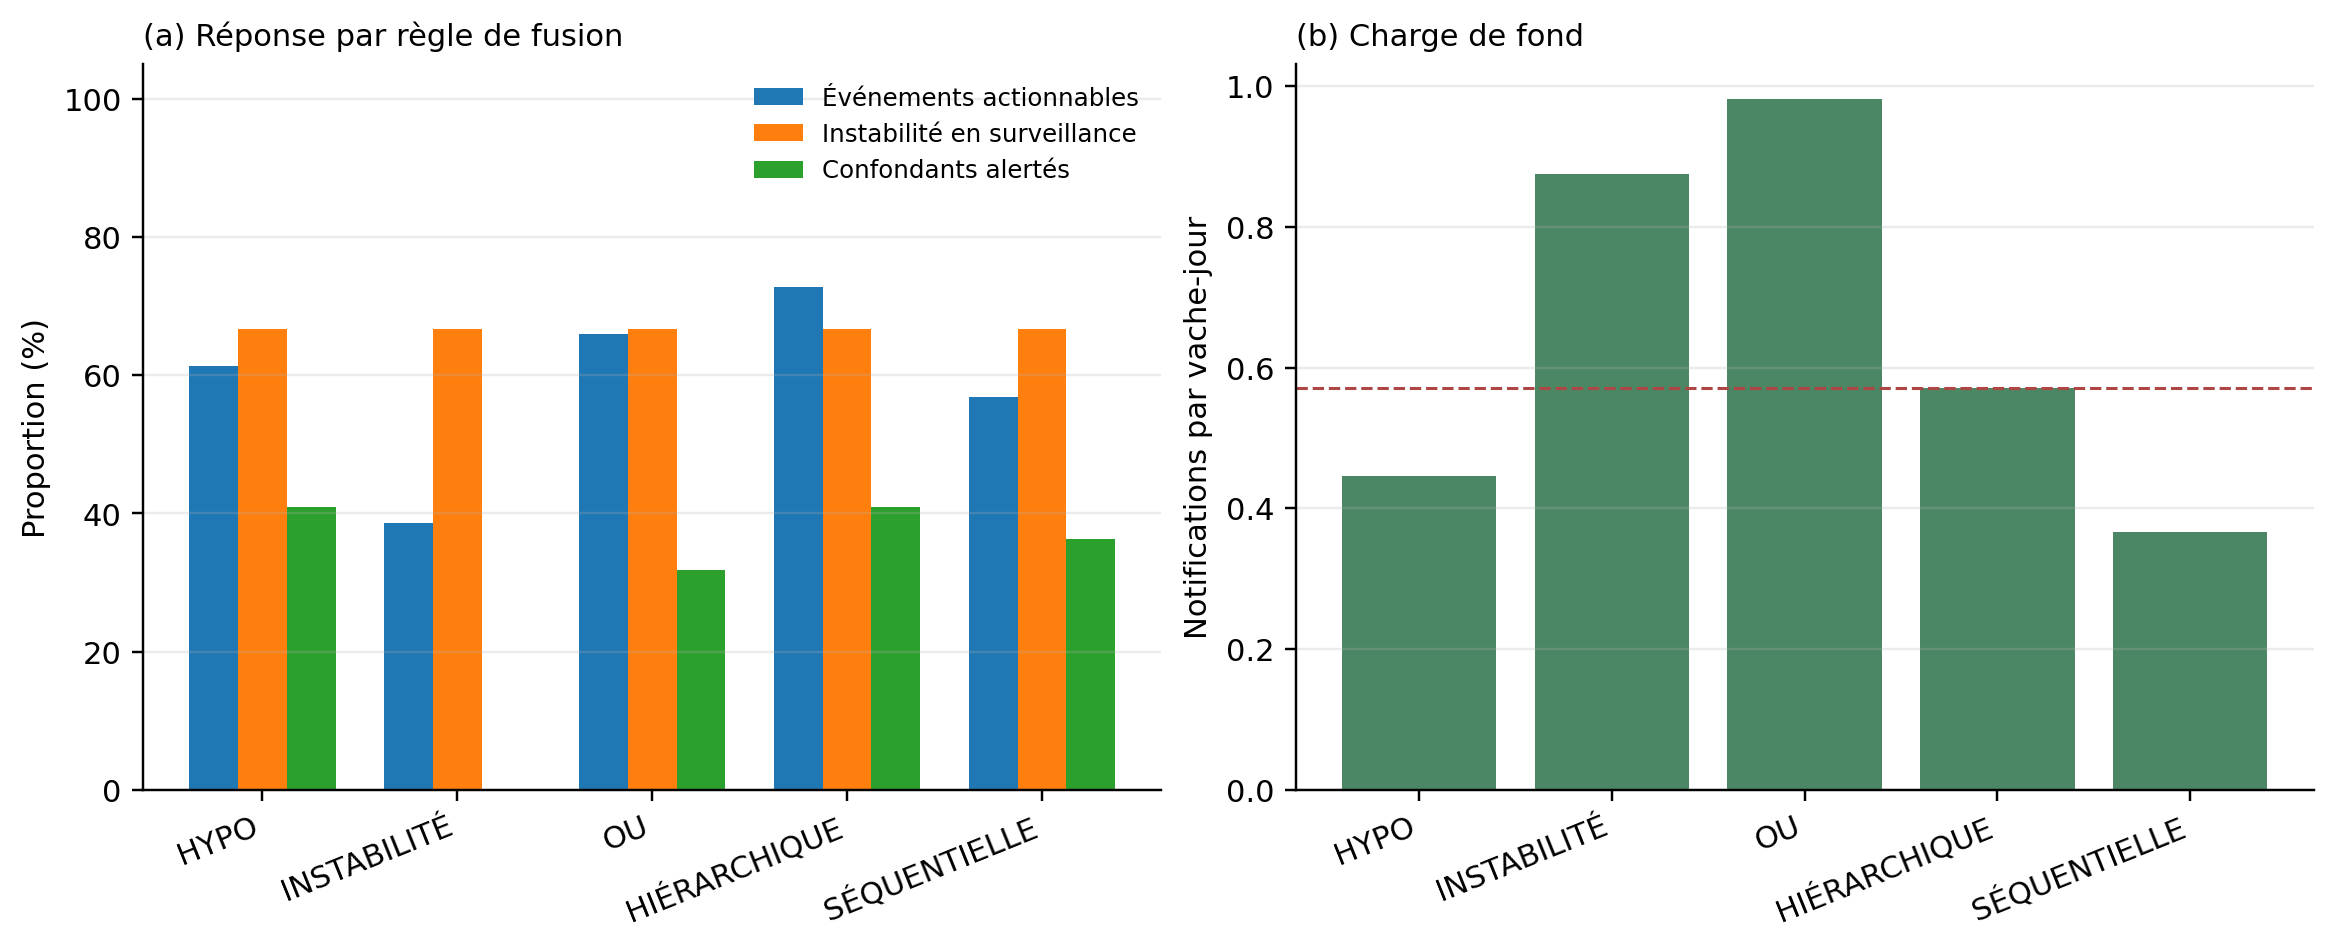
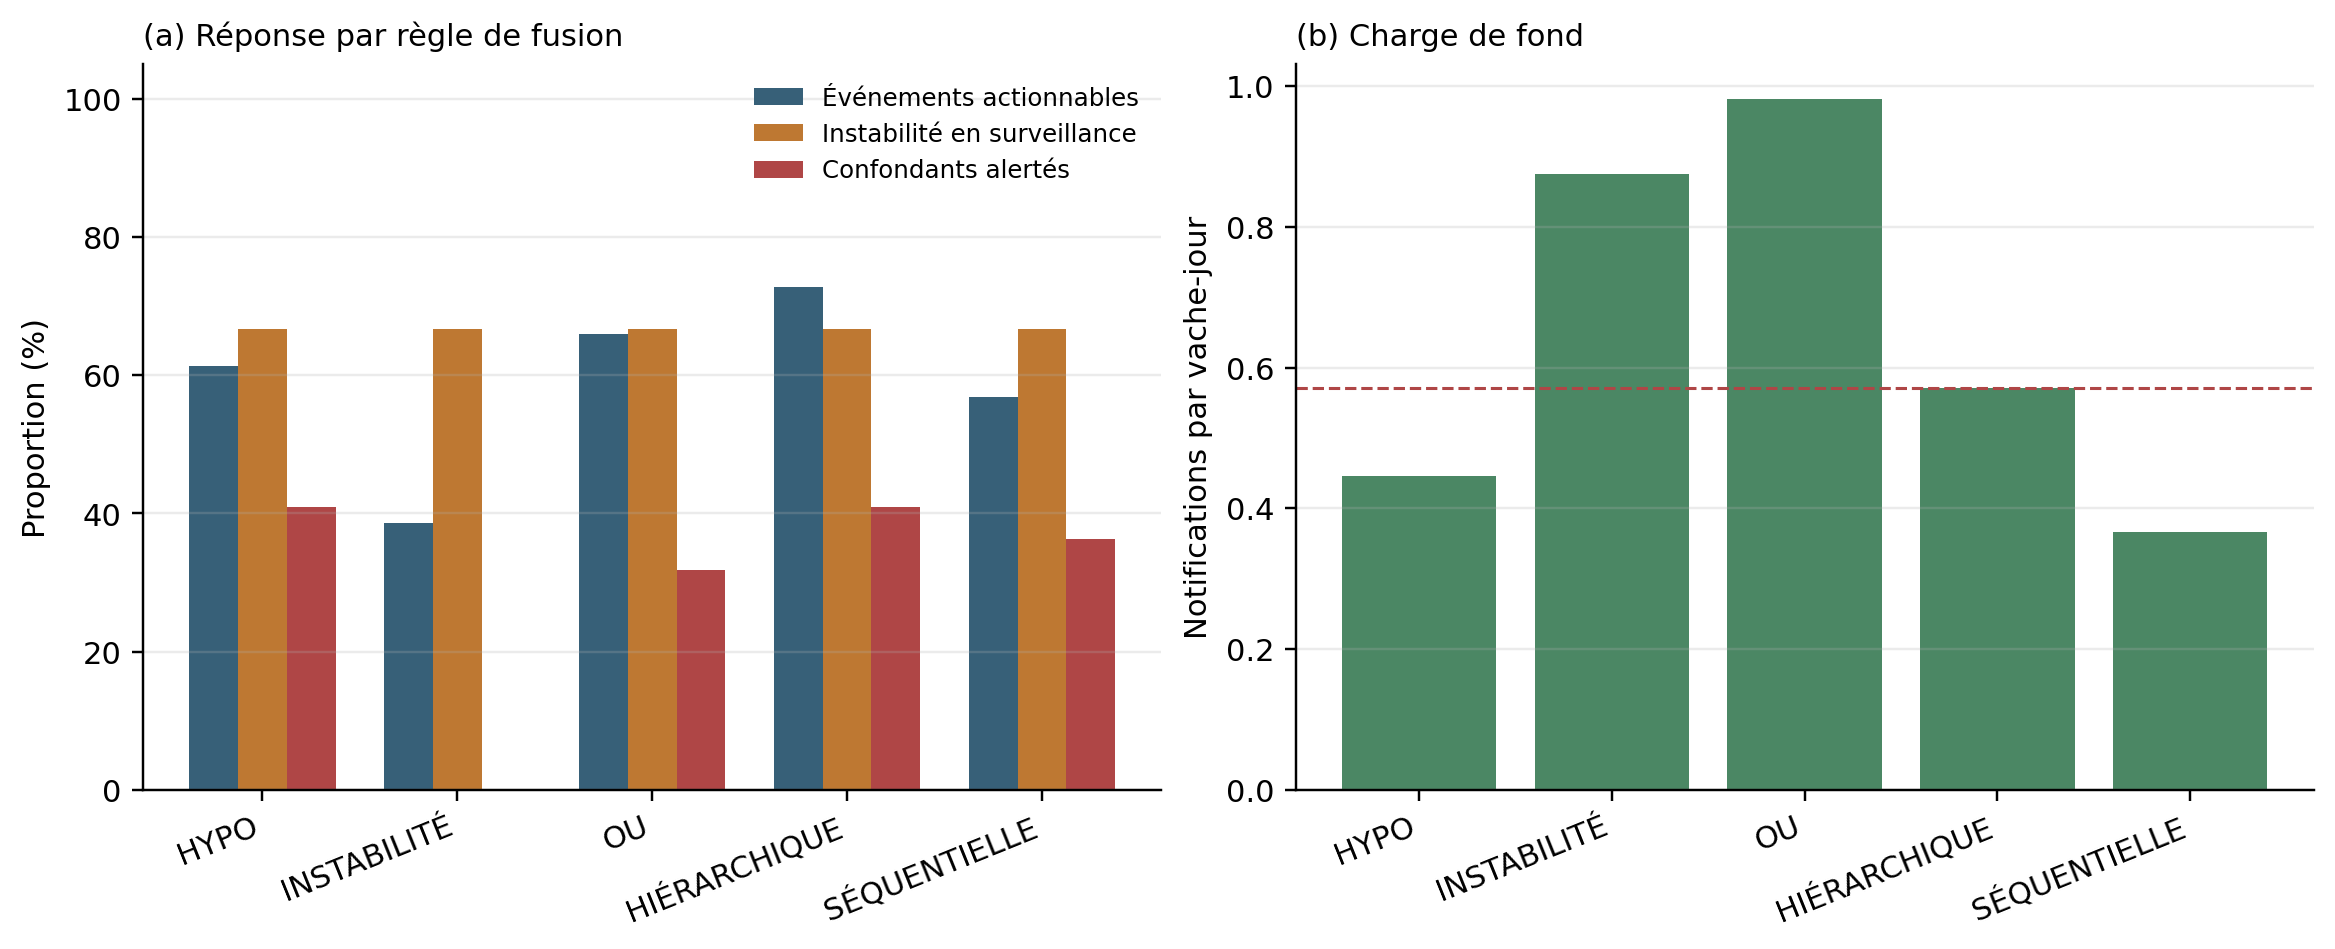
memoire: aligner la comparaison des fusions et le nuage SLS sur la palette du memoire
Quatre series retombaient sur les couleurs par defaut de matplotlib, dont le
panneau (a) de la comparaison des fusions alors que son panneau (b) suivait
la palette maison. Les panneaux de cette figure sont desormais nommes dans le
texte, la ligne pointillee expliquee, et l'invariance de la surveillance dite.
La teinte du nuage SLS, qui ne faisait que repeter l'axe des abscisses, cede
la place a une couleur unique.

Changed region(s): [[0.2467, 0.3056, 0.4934, 0.8556], [0.0617, 0.3361, 0.2158, 0.8556], [0.3084, 0.0917, 0.3392, 0.1834]]

diff --git a/scripts/plot_manuscript_results.py b/scripts/plot_manuscript_results.py
@@ -62,9 +62,16 @@ def plot_fusion_comparison() -> None:
     fig, axes = plt.subplots(1, 2, figsize=(10.5, 4.2), constrained_layout=True)
     x = np.arange(len(data))
     width = 0.25
-    axes[0].bar(x - width, 100 * data["actionable_detection"], width, label="Événements actionnables")
-    axes[0].bar(x, 100 * data["instability_surveillance_detection"], width, label="Instabilité en surveillance")
-    axes[0].bar(x + width, 100 * data["confound_alert_rate"], width, label="Confondants alertés")
+    # Memes couleurs que la figure des scenarios pour les memes grandeurs :
+    # l'alerte actionnable et la surveillance d'instabilite s'y lisent deja en
+    # bleu et en ambre. Le rouge des confondants reprend celui du bandeau
+    # d'alerte, reserve dans tout le memoire a ce qu'on ne veut pas declencher.
+    axes[0].bar(x - width, 100 * data["actionable_detection"], width,
+                label="Événements actionnables", color="#376078")
+    axes[0].bar(x, 100 * data["instability_surveillance_detection"], width,
+                label="Instabilité en surveillance", color="#be7832")
+    axes[0].bar(x + width, 100 * data["confound_alert_rate"], width,
+                label="Confondants alertés", color="#af4646")
     axes[0].set_ylabel("Proportion (%)")
     axes[0].set_ylim(0, 105)
     axes[0].set_xticks(x, labels, rotation=22, ha="right")
@@ -121,7 +128,10 @@ def plot_sls() -> None:
     rng = np.random.default_rng(42)
     for sls, group in data.groupby(sls_col):
         jitter = rng.normal(0, 0.035, len(group))
-        ax.scatter(np.full(len(group), float(sls)) + jitter, group[notif_col], s=48, alpha=0.85)
+        # Couleur unique : la teinte ne ferait que repeter l'axe des abscisses,
+        # qui porte deja le score SLS, et aucune legende ne l'expliquerait.
+        ax.scatter(np.full(len(group), float(sls)) + jitter, group[notif_col],
+                   s=48, alpha=0.85, color="#376078")
     ax.set_xticks(sorted(data[sls_col].dropna().unique()))
     ax.set_xlabel("Score SLS du 12 mars 2019")
     ax.set_ylabel("Notifications dans les 7 jours précédents")

diff --git a/memoire/ch6_resultats.tex b/memoire/ch6_resultats.tex
@@ -636,7 +636,10 @@ La fusion hiérarchique augmente la couverture des scénarios de vérification p
 IoU20 à 29,5\,\%, mais élève le fond de 0,446 à 0,571. Sa fonction d'utilité technique reste
 négative ($-0{,}088$), car les pénalités de confusion et de charge sont importantes. Elle est
 retenue comme configuration représentative de l'extension, non comme remplacement démontré
-de HYPO. La Figure~\ref{fig:fusions} compare les cinq règles de fusion.
+de HYPO. Dans la Figure~\ref{fig:fusions}, le panneau~(a) rapporte la réponse de chaque règle
+et le panneau~(b) la charge de fond qu'elle produit, la ligne pointillée y repérant celle de
+la fusion hiérarchique. La surveillance de l'instabilité y est identique pour les cinq règles,
+puisqu'elle provient de la branche INSTABILITÉ seule et ne dépend pas de la règle appliquée.
 
 \begin{figure}[H]
   \centering
